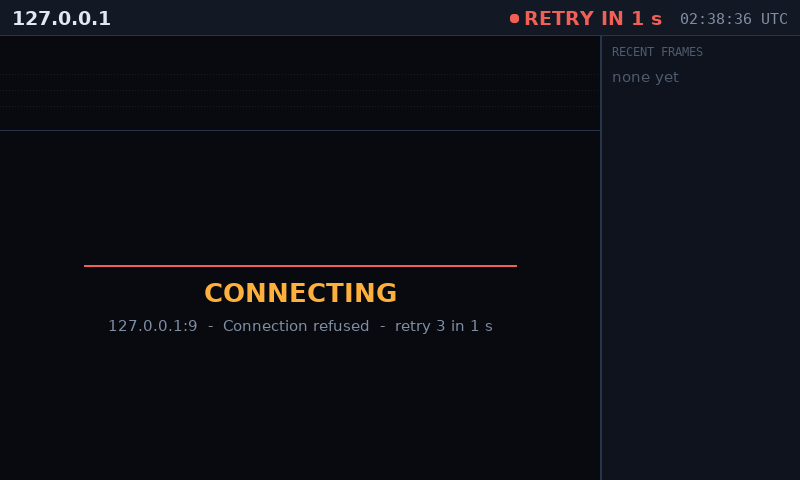
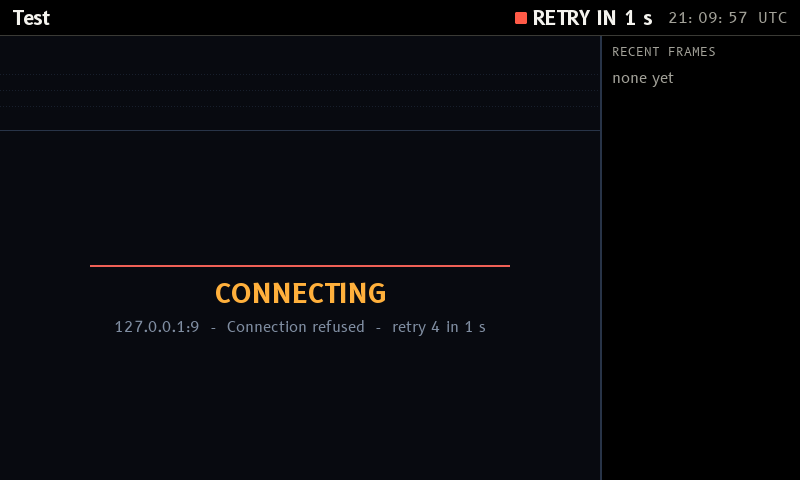
Apps follow the phone's theme
hello, links and waterfall take their colours from the theme the owner picked (Settings, Screen, Theme) and draw again when it changes; fonts follow by themselves. links uses the shell's own header and button. The waterfall's header and frame list wear the theme; the waterfall itself stays dark. Versions 0.2.0.

Needs an SDK with app protocol level 2 (libt48's t48_theme_now, T48_EV_THEME, t48_ui_*): this builds once sdk-latest has been republished from the firmware's main with themes merged. The apps still run on level 1 firmware, as Switchboard.

diff --git a/apps/waterfall/waterfall.c b/apps/waterfall/waterfall.c
@@ -54,9 +54,11 @@
 #define PANEL_TOP (HDR_H + 28)
 #define PANEL_ROW 48
 
+/* The waterfall and spectrum are an instrument: dark whatever the theme, in
+ * these colours. The header and the list of frames beside it are the theme's
+ * (Settings, Screen, Theme), as the rest of the phone is. */
+#define TH (t48_theme_now())
 #define C_BG T48_RGB(8, 10, 16)
-#define C_HDR T48_RGB(18, 24, 36)
-#define C_PANEL T48_RGB(14, 19, 29)
 #define C_LINE T48_RGB(40, 52, 72)
 #define C_GRID T48_RGB(24, 31, 44)
 #define C_TEXT T48_RGB(226, 232, 240)
@@ -411,16 +413,17 @@ static void on_msg(void *ctx, int type, unsigned char *p, size_t len)
 static void draw_header(void)
 {
     char b[96];
-    t48_fill(s, 0, 0, W, HDR_H, C_HDR);
-    t48_fill(s, 0, HDR_H - 1, W, 1, C_LINE);
-    int x = t48_text(s, 12, 7, F_BOLD, C_TEXT, st.name);
+    const int ty = (HDR_H - F_BOLD->height) / 2, my = (HDR_H - F_MONO->height) / 2;
+    t48_fill(s, 0, 0, W, HDR_H, TH->head);
+    if (TH->head_rule) t48_fill(s, 0, HDR_H - 1, W, 1, TH->line);
+    int x = t48_text(s, 12, ty, F_BOLD, TH->on_head, st.name);
     if (st.dial_hz > 0) {
         snprintf(b, sizeof b, "%.3f kHz %s", st.dial_hz / 1000.0, st.lsb ? "LSB" : "USB");
-        x = t48_text(s, x + 16, 10, F_MONO, C_AMBER, b);
+        x = t48_text(s, x + 16, my, F_MONO, TH->on_head, b);
     }
     if (st.version[0]) {
         snprintf(b, sizeof b, "pdn-soundmodem %s", st.version);
-        t48_text(s, x + 16, 10, F_SMALL, C_FAINT, b);
+        t48_text(s, x + 16, (HDR_H - F_SMALL->height) / 2, F_SMALL, TH->on_head_dim, b);
     }
     /* right: TX pill, link state, UTC clock */
     time_t now = time(0);
@@ -428,27 +431,28 @@ static void draw_header(void)
     gmtime_r(&now, &tm);
     snprintf(b, sizeof b, "%02d:%02d:%02d UTC", tm.tm_hour, tm.tm_min, tm.tm_sec);
     int rx = W - 12 - t48_text_width(F_MONO, b);
-    t48_text(s, rx, 10, F_MONO, C_DIM, b);
+    t48_text(s, rx, my, F_MONO, TH->on_head_dim, b);
     long long t = t48_now_ms();
     const char *label;
     uint32_t c;
-    if (st.up && t - st.last_line_ms < 3000) label = "LIVE", c = C_GOOD;
-    else if (st.up) label = st.have_config ? "NO SPECTRUM" : "WAITING", c = C_AMBER;
-    else if (!st.url_ok) label = "NO ADDRESS", c = C_BAD;
+    /* a lamp says how it stands, the word beside it is in the header's own ink */
+    if (st.up && t - st.last_line_ms < 3000) label = "LIVE", c = TH->good;
+    else if (st.up) label = st.have_config ? "NO SPECTRUM" : "WAITING", c = TH->on_head_dim;
+    else if (!st.url_ok) label = "NO ADDRESS", c = TH->bad;
     else if (st.retry_at > t) {
         snprintf(b, sizeof b, "RETRY IN %lld s", (st.retry_at - t + 999) / 1000);
-        label = b, c = C_BAD;
-    } else label = "CONNECTING", c = C_AMBER;
+        label = b, c = TH->bad;
+    } else label = "CONNECTING", c = TH->on_head_dim;
     int w = t48_text_width(F_BOLD, label);
     rx -= w + 34;
-    t48_fill(s, rx - 4, 0, w + 30, HDR_H - 1, C_HDR);
-    t48_round_fill(s, rx + 2, 14, 9, 9, 4, c);
-    t48_text(s, rx + 16, 7, F_BOLD, c, label);
+    t48_fill(s, rx - 4, 0, w + 30, HDR_H - 1, TH->head);
+    t48_ui_lamp(s, rx, HDR_H / 2 - 6, c);
+    t48_text(s, rx + 18, ty, F_BOLD, TH->on_head, label);
     if (st.tx_keyed) {
         int pw = t48_text_width(F_BOLD, "TX") + 16;
         rx -= pw + 12;
-        t48_fill(s, rx, 6, pw, 24, C_BAD);
-        t48_text(s, rx + 8, 7, F_BOLD, T48_RGB(255, 255, 255), "TX");
+        t48_round_fill(s, rx, 6, pw, HDR_H - 12, TH->radius < 8 ? TH->radius : 8, TH->bad);
+        t48_text(s, rx + 8, ty, F_BOLD, TH->on_bad, "TX");
     }
     t48_damage(0, 0, W, HDR_H);
 }
@@ -683,24 +687,24 @@ static void draw_waterfall(void)
 static void draw_panel(void)
 {
     char b[64], snr[16];
-    t48_fill(s, PANEL_X, HDR_H, PANEL_W, H - HDR_H, C_PANEL);
-    t48_text(s, PANEL_X + 10, HDR_H + 8, F_TINY, C_FAINT, "RECENT FRAMES");
+    t48_fill(s, PANEL_X, HDR_H, PANEL_W, H - HDR_H, TH->bg);
+    t48_text(s, PANEL_X + 10, HDR_H + 8, F_TINY, TH->dim, "RECENT FRAMES");
     int y = PANEL_TOP;
     int n = tag_seq < NTAGS ? (int)tag_seq : NTAGS;
-    if (!n) t48_text(s, PANEL_X + 10, y + 4, F_SMALL, C_FAINT, "none yet");
+    if (!n) t48_text(s, PANEL_X + 10, y + 4, F_SMALL, TH->dim, "none yet");
     for (int k = 0; k < n && y + PANEL_ROW <= H; k++) {
         const tag_t *t = &tags[(tag_seq - 1 - k) % NTAGS];
         uint32_t c = t->tx ? C_COOL : band_colour(t->sub);
-        t48_fill(s, PANEL_X + 8, y + 3, 3, PANEL_ROW - 10, c);
-        /* our own transmissions are told by their colour, and "TX" below */
+        /* the bar is the band's colour on the waterfall; our own transmissions say "TX" below */
+        t48_fill(s, PANEL_X + 8, y + 3, 3, PANEL_ROW - 10, TH->dark ? c : t48_mix(c, 0x000000, 70));
         snprintf(b, sizeof b, "%s > %s", t->from[0] ? t->from : "?", t->to[0] ? t->to : "?");
-        t48_text_fit(s, PANEL_X + 18, y + 1, PANEL_W - 24, F_BOLD, t->tx ? C_COOL : C_TEXT, b);
+        t48_text_fit(s, PANEL_X + 18, y + 1, PANEL_W - 24, F_BOLD, t->tx ? TH->dim : TH->text, b);
         const band_t *bd = band_of(t->sub);
         snr[0] = 0;
         if (t->snr10 != NO_SNR) { snprintf(snr, sizeof snr, "  "); snr_text(t->snr10, snr + 2, sizeof snr - 2); }
         snprintf(b, sizeof b, "%s  %s%s%s", t->at, t->tx ? "TX  " : "", bd ? bd->name : "", snr);
-        t48_text_fit(s, PANEL_X + 18, y + 25, PANEL_W - 24, F_TINY, C_DIM, b);
-        t48_fill(s, PANEL_X + 8, y + PANEL_ROW - 4, PANEL_W - 16, 1, C_GRID);
+        t48_text_fit(s, PANEL_X + 18, y + 25, PANEL_W - 24, F_TINY, TH->dim, b);
+        t48_fill(s, PANEL_X + 8, y + PANEL_ROW - 4, PANEL_W - 16, 1, TH->line);
         y += PANEL_ROW;
     }
     t48_damage(PANEL_X, HDR_H, PANEL_W, H - HDR_H);
@@ -862,6 +866,9 @@ int main(void)
             st.paused = 0;
             st.retry_at = 0;
             st.backoff = 1;
+            redraw(1);
+            break;
+        case T48_EV_THEME:  /* the owner changed the look: the header and the list wear it */
             redraw(1);
             break;
         case T48_EV_QUIT:

diff --git a/apps/links/links.c b/apps/links/links.c
@@ -35,16 +35,14 @@
 #define REFRESH_MS 15000
 #define PAGE_TIMEOUT_MS 6000
 
-#define C_BG T48_RGB(14, 20, 30)
-#define C_PANEL T48_RGB(26, 36, 52)
-#define C_LINE T48_RGB(44, 58, 80)
-#define C_TEXT T48_RGB(225, 232, 240)
-#define C_DIM T48_RGB(130, 145, 165)
-#define C_ACCENT T48_RGB(255, 190, 60)
-#define C_GOOD T48_RGB(110, 210, 130)
-#define C_BAD T48_RGB(235, 100, 90)
-#define C_BTN T48_RGB(48, 96, 160)
-#define C_BTN_HI T48_RGB(90, 140, 210)
+/* colours are the theme's (Settings, Screen, Theme), by what they are for */
+#define TH (t48_theme_now())
+#define C_BG (TH->bg)
+#define C_LINE (TH->line)
+#define C_TEXT (TH->text)
+#define C_DIM (TH->dim)
+#define C_GOOD (TH->good)
+#define C_BAD (TH->bad)
 
 #define F_TITLE (&t48_font_head)
 #define F_LABEL (&t48_font_normal)
@@ -237,7 +235,7 @@ static int section(int y, const char *title, int count)
 {
     char t[64];
     snprintf(t, sizeof t, "%s (%d)", title, count);
-    t48_text(s, 16, y, F_BOLD, C_ACCENT, t);
+    t48_text(s, 16, y, F_BOLD, C_TEXT, t);
     t48_fill(s, 16, y + 26, W - 32, 1, C_LINE);
     return y + 32;
 }
@@ -248,13 +246,14 @@ static void draw_page(void)
     time_t t = time(NULL);
     struct tm tm;
 
-    t48_fill(s, 0, 0, W, H, C_BG);
-    t48_fill(s, 0, 0, W, 56, C_PANEL);
-    int x = t48_text(s, 16, 13, F_TITLE, C_TEXT, node_name);
-    t48_text(s, x + 14, 20, F_LABEL, C_DIM, "packet node");
+    /* the shell's own header, with our words in it: the node, and the time as packet radio keeps it */
+    t48_ui_clear(s, C_BG);
+    t48_ui_header_ground(s);
+    int x = t48_text(s, 16, (T48_UI_HEAD_H - F_TITLE->height) / 2, F_TITLE, TH->on_head, node_name);
+    t48_text(s, x + 14, (T48_UI_HEAD_H - F_LABEL->height) / 2 + 2, F_LABEL, TH->on_head_dim, "packet node");
     gmtime_r(&t, &tm);
     snprintf(l, sizeof l, "%02d:%02d UTC", tm.tm_hour, tm.tm_min);
-    t48_text_right(s, W - 16, 17, F_BOLD, C_TEXT, l);
+    t48_text_right(s, W - 16, (T48_UI_HEAD_H - F_BOLD->height) / 2, F_BOLD, TH->on_head_dim, l);
 
     int y = 64;
     if (!url_ok) {
@@ -335,10 +334,9 @@ static void draw_page(void)
         t48_text_fit(s, 330, y, W - 346, F_MONO, C_TEXT, l);
     }
 
-    t48_fill(s, refresh_btn.x, refresh_btn.y, refresh_btn.w, refresh_btn.h, f.busy ? C_LINE : C_BTN);
-    t48_fill(s, refresh_btn.x, refresh_btn.y, refresh_btn.w, 2, C_BTN_HI);
-    t48_text_centre(s, refresh_btn.x + refresh_btn.w / 2, refresh_btn.y + (refresh_btn.h - F_BOLD->height) / 2, F_BOLD,
-                    C_TEXT, f.busy ? "Reading..." : refresh_btn.label);
+    /* a button as the shell draws one in this theme */
+    t48_ui_btn(s, refresh_btn.x, refresh_btn.y, refresh_btn.w, refresh_btn.h, f.busy ? "Reading" : refresh_btn.label,
+               f.busy ? T48_UI_OFF : T48_UI_PLAIN);
     t48_text(s, 190, 438, F_LABEL, C_DIM, "OK: refresh    X: close");
     /* the time of the last good read; a failure is said at the top instead */
     if (f.busy && !have_data) t48_text_right(s, W - 16, 438, F_LABEL, C_DIM, "fetching...");
@@ -421,6 +419,9 @@ int main(void)
             case T48_EV_RESUME:
                 paused = 0;
                 start_fetch();  /* fresh data straight away */
+                redraw = 1;
+                break;
+            case T48_EV_THEME:  /* the owner changed the look */
                 redraw = 1;
                 break;
             case T48_EV_QUIT:

diff --git a/apps/hello/hello.c b/apps/hello/hello.c
@@ -1,14 +1,12 @@
 // SPDX-License-Identifier: AGPL-3.0-or-later
 /* hello: the smallest useful app, and the one to copy when starting a new one.
  * It says hello to whoever the "name" setting names, moves a box with the
- * arrow keys or a touch, and leaves on a short press of X. */
+ * arrow keys or a touch, and leaves on a short press of X. Its colours are
+ * the theme's (Settings, Screen, Theme), so it looks like the rest of the
+ * phone; the fonts follow the theme by themselves. */
 #include <stdio.h>
 #include "t48.h"
 
-#define C_BG T48_RGB(16, 22, 34)
-#define C_TEXT T48_RGB(232, 238, 246)
-#define C_DIM T48_RGB(130, 146, 170)
-#define C_BOX T48_RGB(255, 176, 60)
 #define BOX 60
 
 static t48_surface *s;
@@ -18,12 +16,13 @@ static char status[64] = "Arrows or a touch move the box";
 static void draw(void)
 {
     char line[96];
-    t48_fill(s, 0, 0, s->w, s->h, C_BG);
+    const t48_theme *th = t48_theme_now();  /* colours by what they are for: ground, ink, quiet ink, lit */
+    t48_fill(s, 0, 0, s->w, s->h, th->bg);
     snprintf(line, sizeof line, "Hello, %s", t48_setting("name", "world"));
-    t48_text_centre(s, s->w / 2, 60, &t48_font_big, C_TEXT, line);
-    t48_text_centre(s, s->w / 2, 130, &t48_font_normal, C_DIM, status);
-    t48_round_fill(s, bx, by, BOX, BOX, 12, C_BOX);
-    t48_text_centre(s, s->w / 2, 440, &t48_font_small, C_DIM, "X: close     hold X: home");
+    t48_text_centre(s, s->w / 2, 60, &t48_font_big, th->text, line);
+    t48_text_centre(s, s->w / 2, 130, &t48_font_normal, th->dim, status);
+    t48_round_fill(s, bx, by, BOX, BOX, th->radius, th->accent);
+    t48_text_centre(s, s->w / 2, 440, &t48_font_small, th->dim, "X: close     hold X: home");
     t48_damage_all();  /* simplest: say the whole screen changed */
 }
 
@@ -62,6 +61,7 @@ int main(void)
             t48_paused();                    /* nothing to tidy up: freeze now */
             break;
         case T48_EV_RESUME:
+        case T48_EV_THEME:                   /* the owner changed the look: draw in the new one */
             draw();
             break;
         case T48_EV_QUIT:

diff --git a/README.md b/README.md
@@ -29,7 +29,7 @@ export T48_SDK=$PWD/t48s-sdk
 
 **2. Copy hello.** `cp -r apps/hello apps/myapp`, then in the copy rename `hello.c`, set `APP` and `SRC` in the `Makefile`, and give `manifest.json` your app's `id` (the same as `APP`), `name`, `version`, `description` and settings. The `id` is a-z, 0-9, `-`, `.` and `_`.
 
-**3. Write it** with libt48. `$T48_SDK/share/t48/libt48/include/t48.h` lists everything: drawing, fonts, a JSON reader, a WebSocket client, timers, watching your own sockets, settings. [hello.c](apps/hello/hello.c) shows the shape of an app: start, draw, then a loop over events. Answer PAUSE by closing network connections (the app is frozen a second later) and RESUME by drawing everything again. A short press of X is "back"; leave with `return 0` when there is nowhere to go back to.
+**3. Write it** with libt48. `$T48_SDK/share/t48/libt48/include/t48.h` lists everything: drawing, fonts, a JSON reader, a WebSocket client, timers, watching your own sockets, settings. [hello.c](apps/hello/hello.c) shows the shape of an app: start, draw, then a loop over events. Take colours from `t48_theme_now()` (ground, ink, quiet ink, go, stop) and draw everything again on `T48_EV_THEME`, and the app wears whichever theme the owner picked in Settings, Screen, Theme; the fonts follow by themselves, and `t48_ui_*` draws the shell's own header, buttons and rows. Answer PAUSE by closing network connections (the app is frozen a second later) and RESUME by drawing everything again. A short press of X is "back"; leave with `return 0` when there is nowhere to go back to.
 
 **4. Build and try it on this PC:**
 

diff --git a/apps/links/README.md b/apps/links/README.md
@@ -9,7 +9,10 @@ A LinBPQ packet node at a glance: open AX.25 links, who is connected, and the ne
 
 OK or Refresh reads the node at once. X closes the app.
 
+It wears the owner's theme: the shell's own header and button, and the theme's colours and fonts.
+
 ![live](screenshots/live.png)
+![in Directory](screenshots/directory.png)
 ![node not reachable](screenshots/unreachable.png)
 
 Moved from the firmware repo's `native/t48ui.c`, the GB7RDG links screen that ran beside Yealink's own phone software.

diff --git a/apps/waterfall/README.md b/apps/waterfall/README.md
@@ -9,7 +9,10 @@ Live receive waterfall of a [pdn-soundmodem](https://github.com/M0LTE/pdn-soundm
 
 OK tries again at once while it cannot connect. X closes the details, then the app.
 
+The header and the list of frames wear the owner's theme. The waterfall and spectrum are an instrument and stay dark in every theme.
+
 ![live](screenshots/live.png)
+![in Two-tone](screenshots/twotone.png)
 ![a frame's details](screenshots/frame-details.png)
 ![no station](screenshots/no-station.png)
 

diff --git a/apps/hello/README.md b/apps/hello/README.md
@@ -2,4 +2,8 @@
 
 The smallest useful app: it greets whoever its `name` setting names, moves a box with the arrows or a touch, and closes on X. Copy this folder to start a new app; the guide is in the [top README](../../README.md#writing-an-app).
 
+It takes its colours from the owner's theme and changes with it while open: the pattern to copy.
+
 ![hello](screenshots/hello.png)
+![in Directory](screenshots/directory.png)
+![in Two-tone](screenshots/twotone.png)
